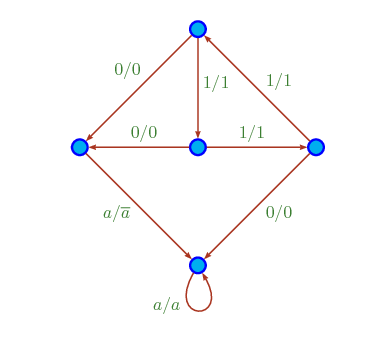
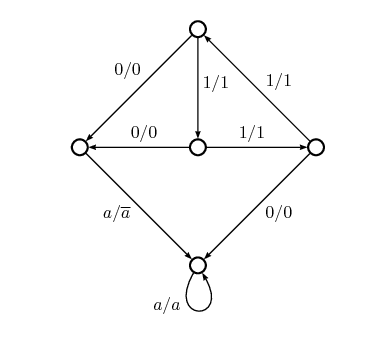
Remove beamer styling from figure

diff --git a/figures/grigorchuk.tex b/figures/grigorchuk.tex
@@ -6,7 +6,7 @@
 %
 %---------------------------------------------------------------------------
 \documentclass{standalone}
-\usepackage[beamer]{vaucanson-g}
+\usepackage{vaucanson-g}
 
 \FixStateLineDouble{.9}{.8}
 \renewcommand{\TinyScale}{0.40}
